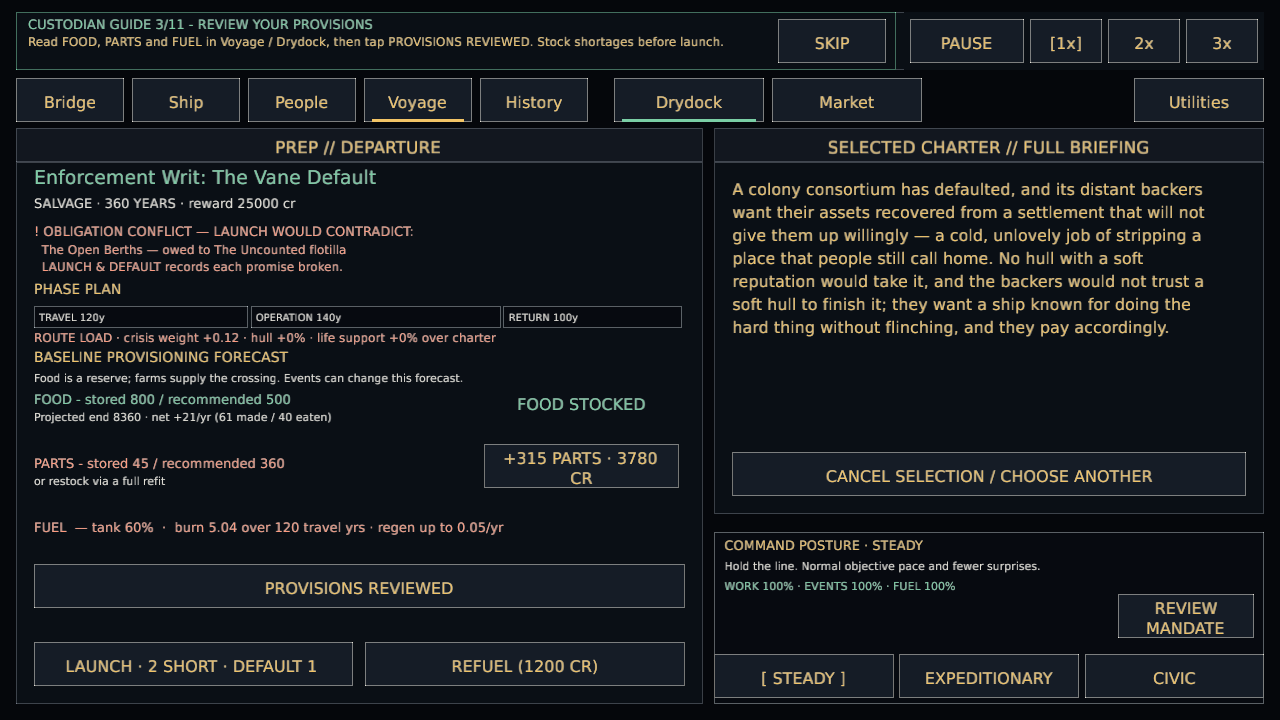
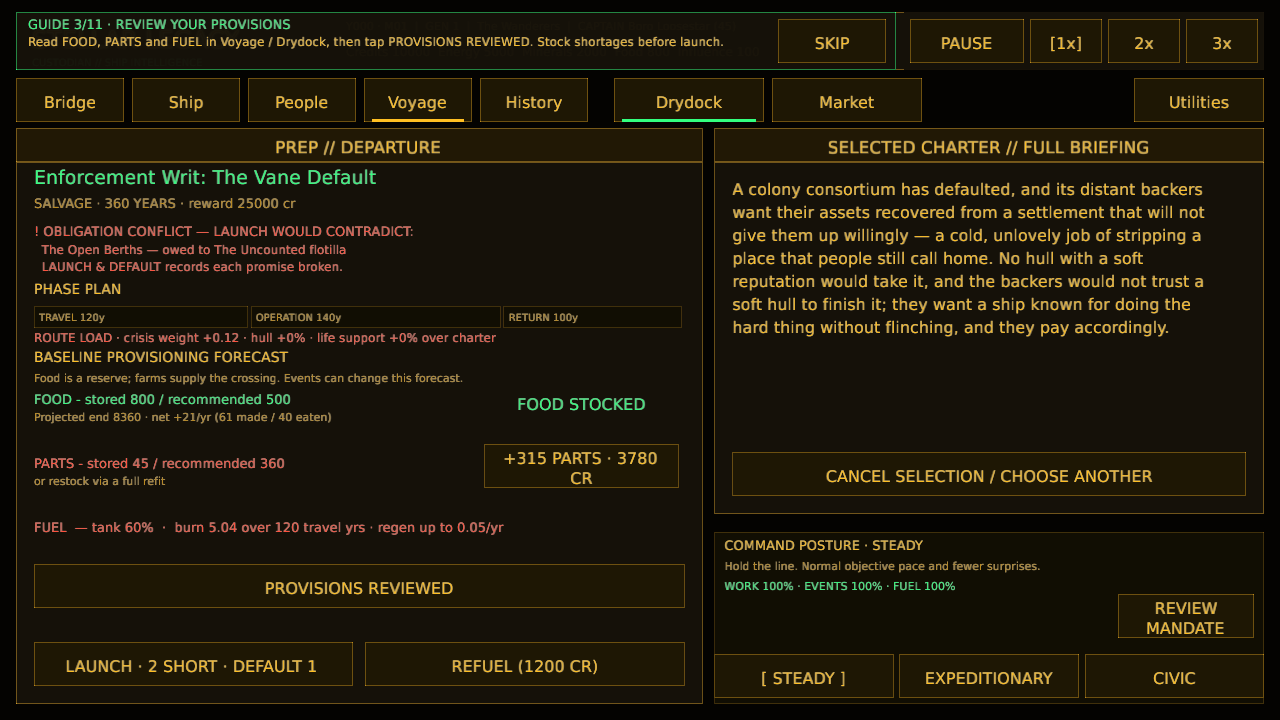
The Custodian sees the induction through (tutorial completion and mobile guidance)
The final council lesson offered FINISH too early and then lost its guide
when completed. Keep a visible completion step until the player closes it,
and return the mobile reading view to each new instruction. Explain the
compact Navigate control for station lessons and match queue progress to
the requested project.

Verified desktop and phone captures, 540 unit tests plus the source-size
check, and warning-free Clippy. The no-argument publisher passed Windows
and WebGL packaging, Preview deployment and packaged launch smoke checks.
These checks do not replace fresh-player tutorial acceptance.

diff --git a/src/ui/tutorial.rs b/src/ui/tutorial.rs
@@ -4,27 +4,81 @@ use macroquad::prelude::*;
 use macroquad_toolkit::prelude::*;
 use macroquad_toolkit::ui::{draw_text_block, draw_ui_text_ex};
 
+struct Guide {
+    heading: String,
+    tip: String,
+    complete: bool,
+    needs_navigation: bool,
+}
+
+fn guide(data: &crate::data::GameData, step: usize) -> Option<Guide> {
+    let steps = &data.config.tutorial.guided_steps;
+    if steps.is_empty() {
+        return None;
+    }
+    Some(if let Some(lesson) = steps.get(step) {
+        Guide {
+            heading: format!("Guide {}/{} · {}", step + 1, steps.len(), lesson.label),
+            tip: lesson.tip.clone(),
+            complete: false,
+            needs_navigation: matches!(
+                lesson.id.as_str(),
+                "dashboard" | "people" | "systems" | "launch" | "agenda"
+            ),
+        }
+    } else {
+        Guide {
+            heading: "Custodian guide complete".into(),
+            tip: "You have prepared the ship, queued work, controlled time and answered the council. Tap FINISH to close the guide; Help remains in Utilities.".into(),
+            complete: true,
+            needs_navigation: false,
+        }
+    })
+}
+
+pub(crate) fn form(ctx: &GameplayCtx<'_>, form: &mut crate::ui::mobile::form::Form) {
+    if let Some(guide) = guide(ctx.data, ctx.sim.tutorial_step) {
+        form.heading(&guide.heading);
+        if guide.needs_navigation && crate::ui::mobile::navigation_is_compact() {
+            form.text("Tap Navigate to open the station list, then follow the instruction below.");
+        }
+        form.text(&guide.tip);
+        form.action(
+            if guide.complete {
+                "FINISH"
+            } else {
+                "Skip tutorial"
+            },
+            true,
+            if guide.complete {
+                UiAction::NextTutorial
+            } else {
+                UiAction::SkipTutorial
+            },
+        );
+    }
+}
+
+pub(crate) fn reading_step(ctx: &GameplayCtx<'_>) -> Option<usize> {
+    (ctx.tutorial_enabled && ctx.tutorial_open && !ctx.sim.tutorial_dismissed)
+        .then_some(ctx.sim.tutorial_step)
+}
+
 pub fn draw(ctx: &GameplayCtx<'_>, pointer: Pointer, actions: &mut Vec<UiAction>) {
-    let steps = &ctx.data.config.tutorial.guided_steps;
-    let Some(step) = steps.get(ctx.sim.tutorial_step) else {
+    let Some(guide) = guide(ctx.data, ctx.sim.tutorial_step) else {
         return;
     };
     let panel = Rect::new(16.0, 12.0, 880.0, 58.0);
     draw_rectangle(panel.x, panel.y, panel.w, panel.h, term::panel());
     draw_rectangle_lines(panel.x, panel.y, panel.w, panel.h, 1.0, term::accent());
     draw_ui_text_ex(
-        &format!(
-            "CUSTODIAN GUIDE {}/{} - {}",
-            ctx.sim.tutorial_step + 1,
-            steps.len(),
-            step.label.to_uppercase()
-        ),
+        &guide.heading.to_uppercase(),
         28.0,
         29.0,
         TextStyle::new(13.0, term::accent()).params(),
     );
     draw_text_block(
-        &step.tip,
+        &guide.tip,
         28.0,
         34.0,
         735.0,
@@ -33,17 +87,19 @@ pub fn draw(ctx: &GameplayCtx<'_>, pointer: Pointer, actions: &mut Vec<UiAction>
         2.0,
         term::primary(),
     );
-    let last = ctx.sim.tutorial_step + 1 == steps.len();
     if term_button(
         Rect::new(778.0, 19.0, 108.0, 44.0),
-        if last { "FINISH" } else { "SKIP" },
+        if guide.complete { "FINISH" } else { "SKIP" },
         true,
         pointer,
     ) {
-        actions.push(if last {
+        actions.push(if guide.complete {
             UiAction::NextTutorial
         } else {
             UiAction::SkipTutorial
         });
     }
 }
+
+#[cfg(test)]
+mod tests;

diff --git a/src/ui/mobile.rs b/src/ui/mobile.rs
@@ -20,20 +20,29 @@ pub fn size() -> (f32, f32) {
     (logical_width(), logical_height())
 }
 
-pub fn draw(ctx: &GameplayCtx<'_>) -> Vec<UiAction> {
+fn shell_layout() -> layout::Layout {
     let (width, height) = size();
-    let mut actions = Vec::new();
-    let pointer = ctx.pointer;
     let widest = navigation::Destination::ALL
         .iter()
         .map(|d| measure_text_size(d.label(), TextStyle::new(16.0, term::primary())).width)
         .fold(0.0, f32::max);
-    let layout = layout::Layout::new(
+    layout::Layout::new(
         width,
         height,
         macroquad_toolkit::ui::ui_text_scale(),
         widest,
-    );
+    )
+}
+
+pub(crate) fn navigation_is_compact() -> bool {
+    active() && shell_layout().compact_navigation
+}
+
+pub fn draw(ctx: &GameplayCtx<'_>) -> Vec<UiAction> {
+    let (width, height) = size();
+    let mut actions = Vec::new();
+    let pointer = ctx.pointer;
+    let layout = shell_layout();
     if !layout.compact_navigation {
         ctx.presentation.navigation_open.set(false);
     }
@@ -190,17 +199,7 @@ pub fn draw_content(ctx: &GameplayCtx<'_>, view: Rect) -> Vec<UiAction> {
         key
     } else {
         if ctx.tutorial_enabled && ctx.tutorial_open && !ctx.sim.tutorial_dismissed {
-            if let Some(step) = ctx
-                .data
-                .config
-                .tutorial
-                .guided_steps
-                .get(ctx.sim.tutorial_step)
-            {
-                form.heading(&format!("Tutorial · {}", step.label));
-                form.text(&step.tip);
-                form.action("Skip tutorial", true, UiAction::SkipTutorial);
-            }
+            tutorial::form(ctx, &mut form);
         }
         match ctx.screen {
             Screen::Dashboard => bridge(ctx, &mut form),
@@ -214,13 +213,14 @@ pub fn draw_content(ctx: &GameplayCtx<'_>, view: Rect) -> Vec<UiAction> {
             Screen::Chronicle => history::build(ctx, &mut form, &section),
         }
         format!(
-            "{:?}:{section}:{:?}:{:?}:{:?}:{:?}:{:?}",
+            "{:?}:{section}:{:?}:{:?}:{:?}:{:?}:{:?}:{:?}",
             ctx.screen,
             ctx.project_cancel_confirm.get(),
             ctx.custody_picker,
             ctx.sim.selected_charter,
             ctx.obligation_detail,
-            ctx.presentation.project_cancellation.get()
+            ctx.presentation.project_cancellation.get(),
+            tutorial::reading_step(ctx)
         )
     };
     if ctx.sim.debrief.is_some() {

diff --git a/src/game/capture_scenes.rs b/src/game/capture_scenes.rs
@@ -402,7 +402,7 @@ impl Game {
                 gameplay.screen = Screen::Drydock;
                 self.state = crate::state::GameState::Gameplay(Box::new(gameplay));
             }
-            "prep" | "tutorial" => {
+            "prep" | "tutorial" | "tutorial_complete" | "tutorial_navigation" => {
                 // A charter under consideration in port (W4): the PREP screen,
                 // with deliberately mixed provisioning so shortfalls show red.
                 let mut sim = SimState::new_campaign(
@@ -416,10 +416,16 @@ impl Game {
                         &mut sim, &self.data, &event, 0,
                     );
                 }
-                if scene == "tutorial" {
+                if scene.starts_with("tutorial") {
                     self.tutorial_open = true;
                     self.display.tutorial_enabled = true;
-                    sim.tutorial_step = 2;
+                    sim.tutorial_step = if scene == "tutorial_complete" {
+                        self.data.config.tutorial.guided_steps.len()
+                    } else if scene == "tutorial_navigation" {
+                        0
+                    } else {
+                        2
+                    };
                 }
                 sim.selected_charter = Some("the_hard_contract".to_owned());
                 sim.ship.fuel = 0.6;

diff --git a/src/game/tutorial.rs b/src/game/tutorial.rs
@@ -11,7 +11,17 @@ fn completed(step: usize, action: &UiAction, sim: &SimState) -> bool {
         (4, UiAction::SelectScreen(Screen::ShipBuilder)) => true,
         (5, UiAction::Launch) => sim.contract.is_some(),
         (6, UiAction::SelectScreen(Screen::Agenda)) => true,
-        (7, UiAction::QueueProject { .. }) => !sim.projects.jobs.is_empty(),
+        (
+            7,
+            UiAction::QueueProject {
+                project_id,
+                target_id,
+            },
+        ) => sim
+            .projects
+            .jobs
+            .iter()
+            .any(|job| &job.project_id == project_id && &job.target_id == target_id),
         (8, UiAction::TogglePause | UiAction::SetSpeed(GameSpeed::Paused)) => {
             sim.speed == GameSpeed::Paused
         }

diff --git a/src/game/actions.rs b/src/game/actions.rs
@@ -527,9 +527,7 @@ impl Game {
             UiAction::ReviewProvisions => None,
             UiAction::NextTutorial => {
                 if let GameState::Gameplay(gameplay) = &mut self.state {
-                    if gameplay.sim.tutorial_step + 1
-                        == self.data.config.tutorial.guided_steps.len()
-                    {
+                    if gameplay.sim.tutorial_step >= self.data.config.tutorial.guided_steps.len() {
                         gameplay.sim.tutorial_dismissed = true;
                         self.tutorial_open = false;
                     }

diff --git a/src/ui/tutorial/tests.rs b/src/ui/tutorial/tests.rs
@@ -1,0 +1,15 @@
+use super::*;
+
+#[test]
+fn the_council_lesson_must_finish_before_the_guide_offers_completion() {
+    let data = crate::data::GameData::load().unwrap();
+    let count = data.config.tutorial.guided_steps.len();
+    for step in 0..count {
+        assert!(!guide(&data, step).unwrap().complete);
+    }
+    let final_lesson = guide(&data, count - 1).unwrap();
+    assert!(final_lesson.tip.contains("Commit"));
+    let finished = guide(&data, count).unwrap();
+    assert!(finished.complete);
+    assert!(finished.tip.contains("FINISH"));
+}

diff --git a/src/game/tutorial/tests.rs b/src/game/tutorial/tests.rs
@@ -37,6 +37,14 @@ fn guide_requires_the_named_action_and_successful_state() {
             0,
         ));
     assert!(completed(7, &project, &sim));
+    assert!(!completed(
+        7,
+        &UiAction::QueueProject {
+            project_id: "restore_hull".into(),
+            target_id: None,
+        },
+        &sim
+    ));
     sim.toggle_pause();
     assert!(completed(8, &UiAction::TogglePause, &sim));
     assert!(!completed(9, &UiAction::TogglePause, &sim));

diff --git a/src/data/tests/content.rs b/src/data/tests/content.rs
@@ -121,7 +121,7 @@ fn tutorial_steps_cover_the_launch_flow() {
         .find(|step| step.id == "systems")
         .unwrap();
     assert!(systems.tip.contains("Tap Ship"));
-    assert!(systems.tip.contains("Tap Systems"));
+    assert!(systems.tip.contains("Systems"));
 }
 
 /// Every registry parses and carries at least the authored minimum.

diff --git a/gdd.md b/gdd.md
@@ -275,6 +275,9 @@ scale or limited height, a persistent Navigate control opens the five destinatio
 as a scrollable list; Back returns to the current screen. The phone
 header and time controls reserve space for the selected text size.
 Council choices select a response before explicit Commit; full consequences scroll.
+The guide offers FINISH only after all lessons, including the council response,
+are complete. Its completion message is visible on desktop and phone; advancing
+a lesson returns a scrolling reading view to the next instruction.
 Agenda project reviews share one reading flow across display sizes. Pause and
 resume show the same availability checks used by the command, including slots,
 port restrictions and exact restoration affordability. Cancellation has a
